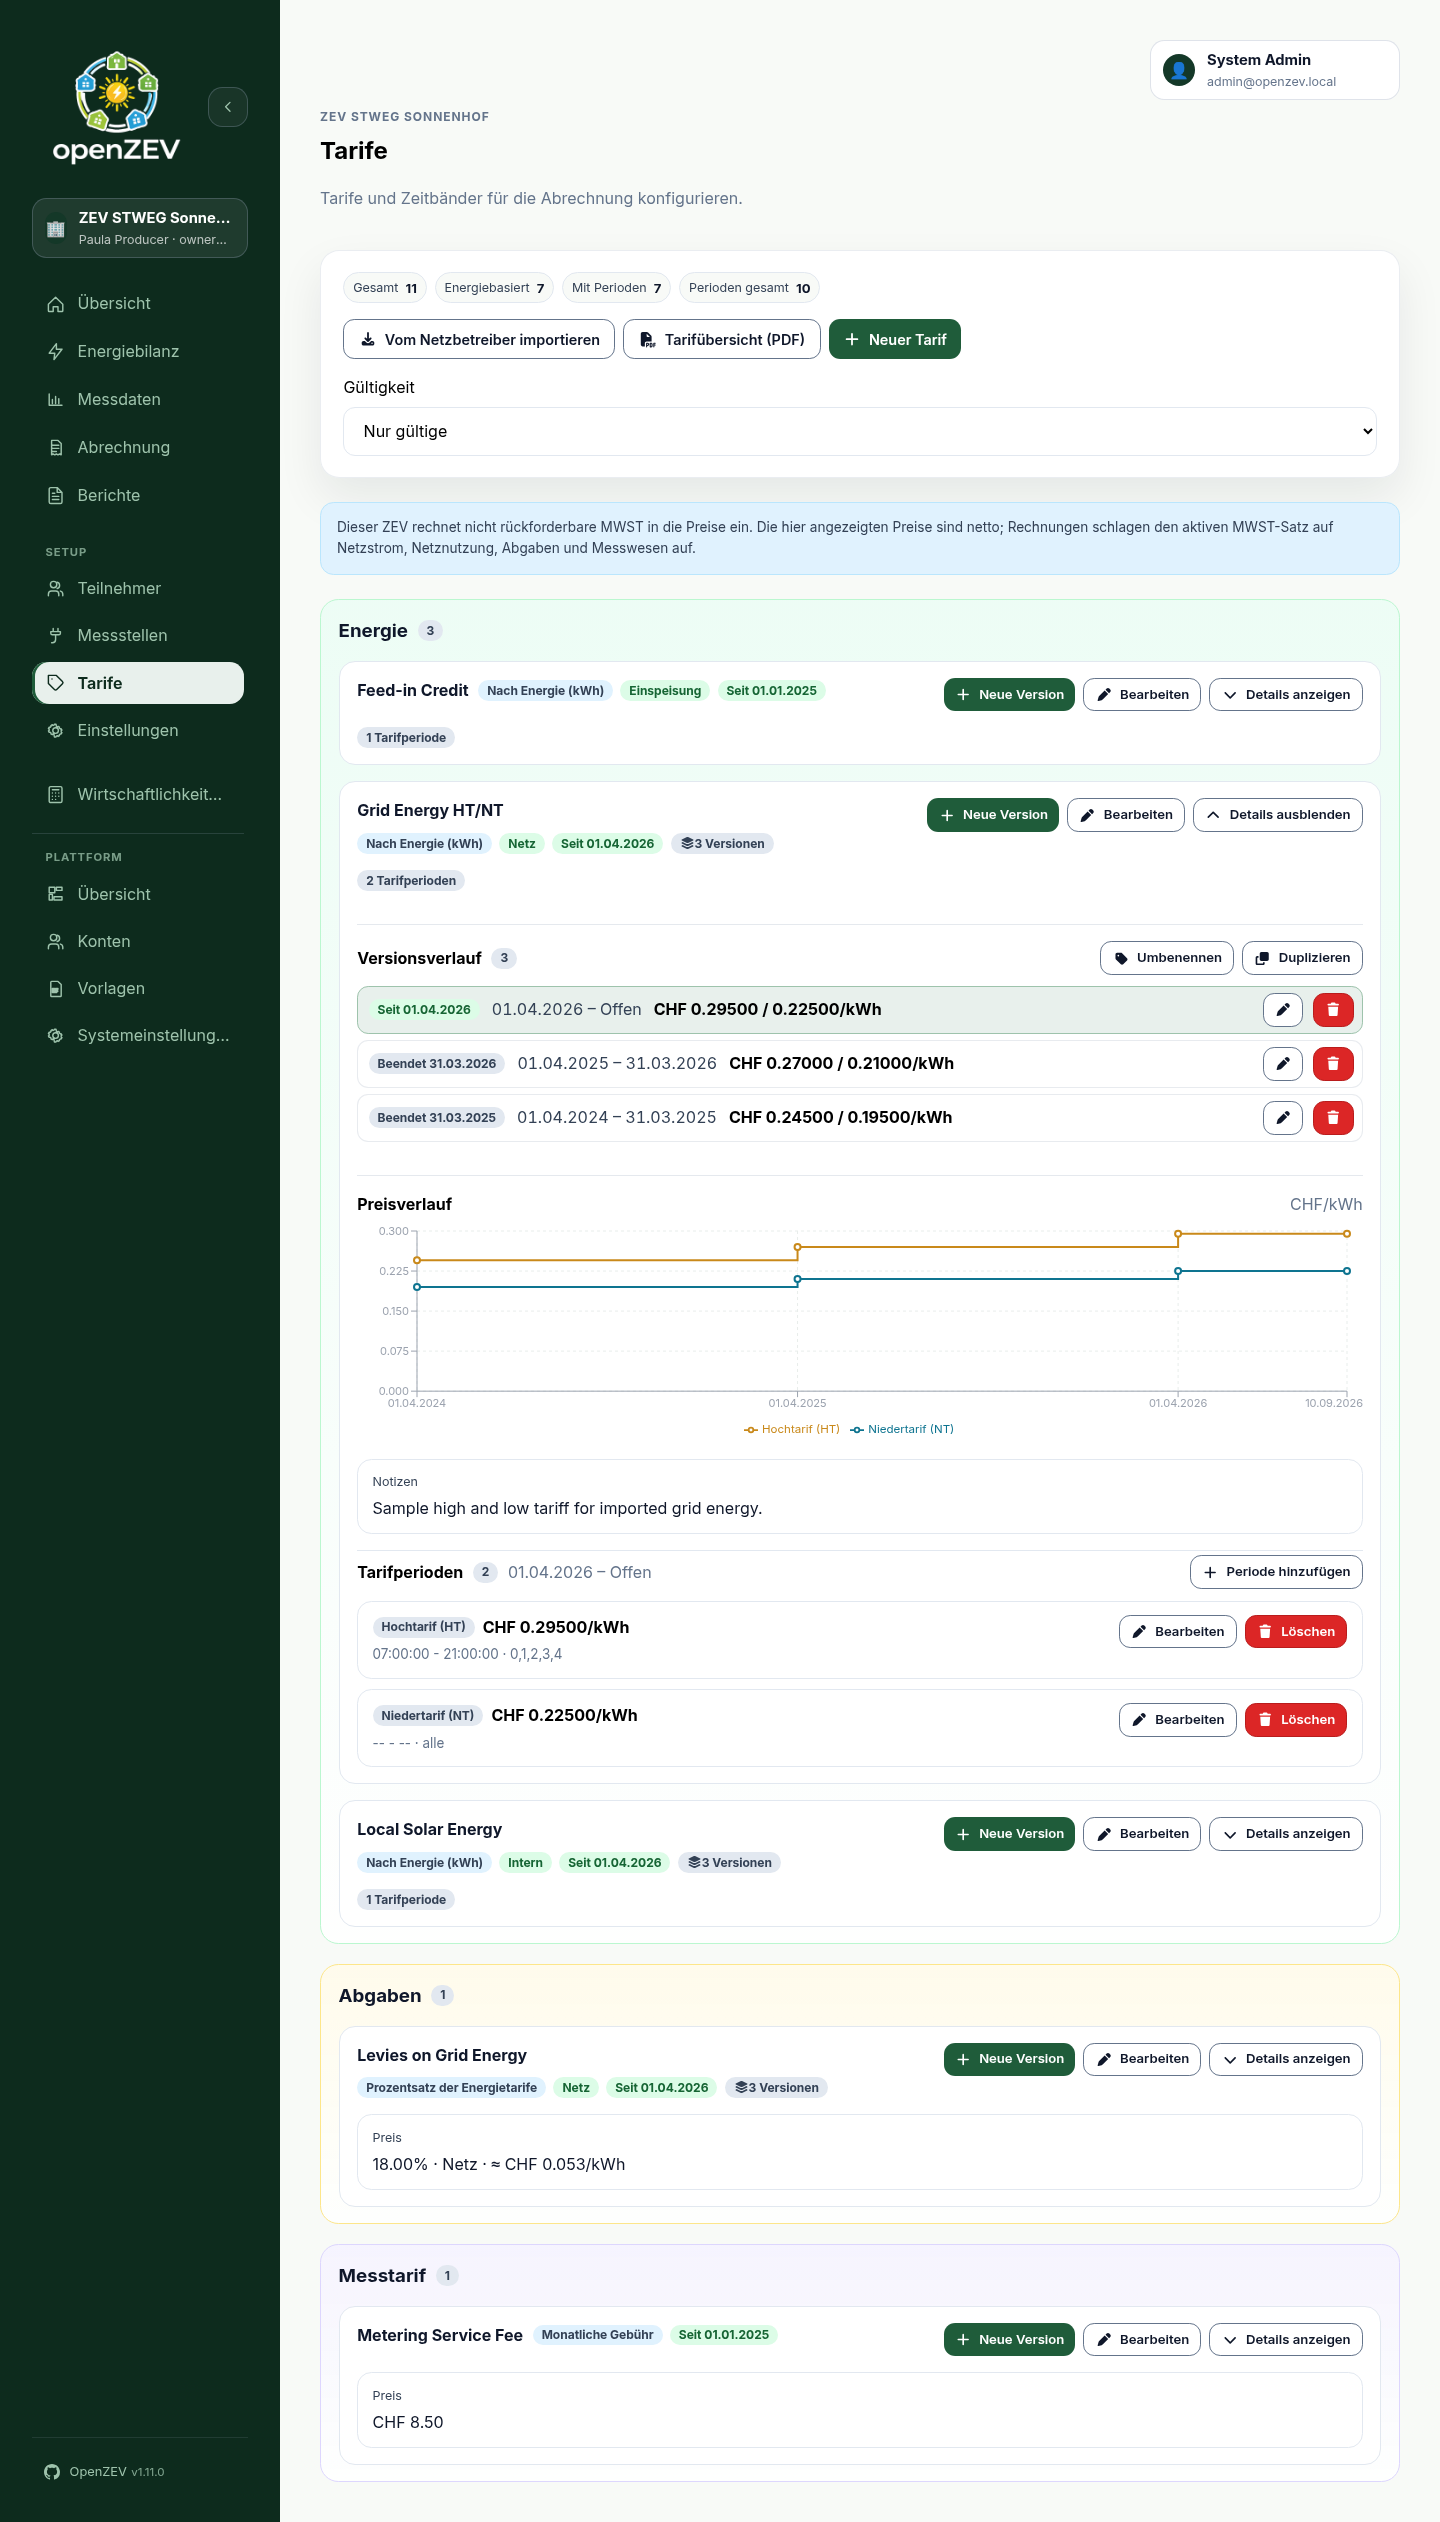
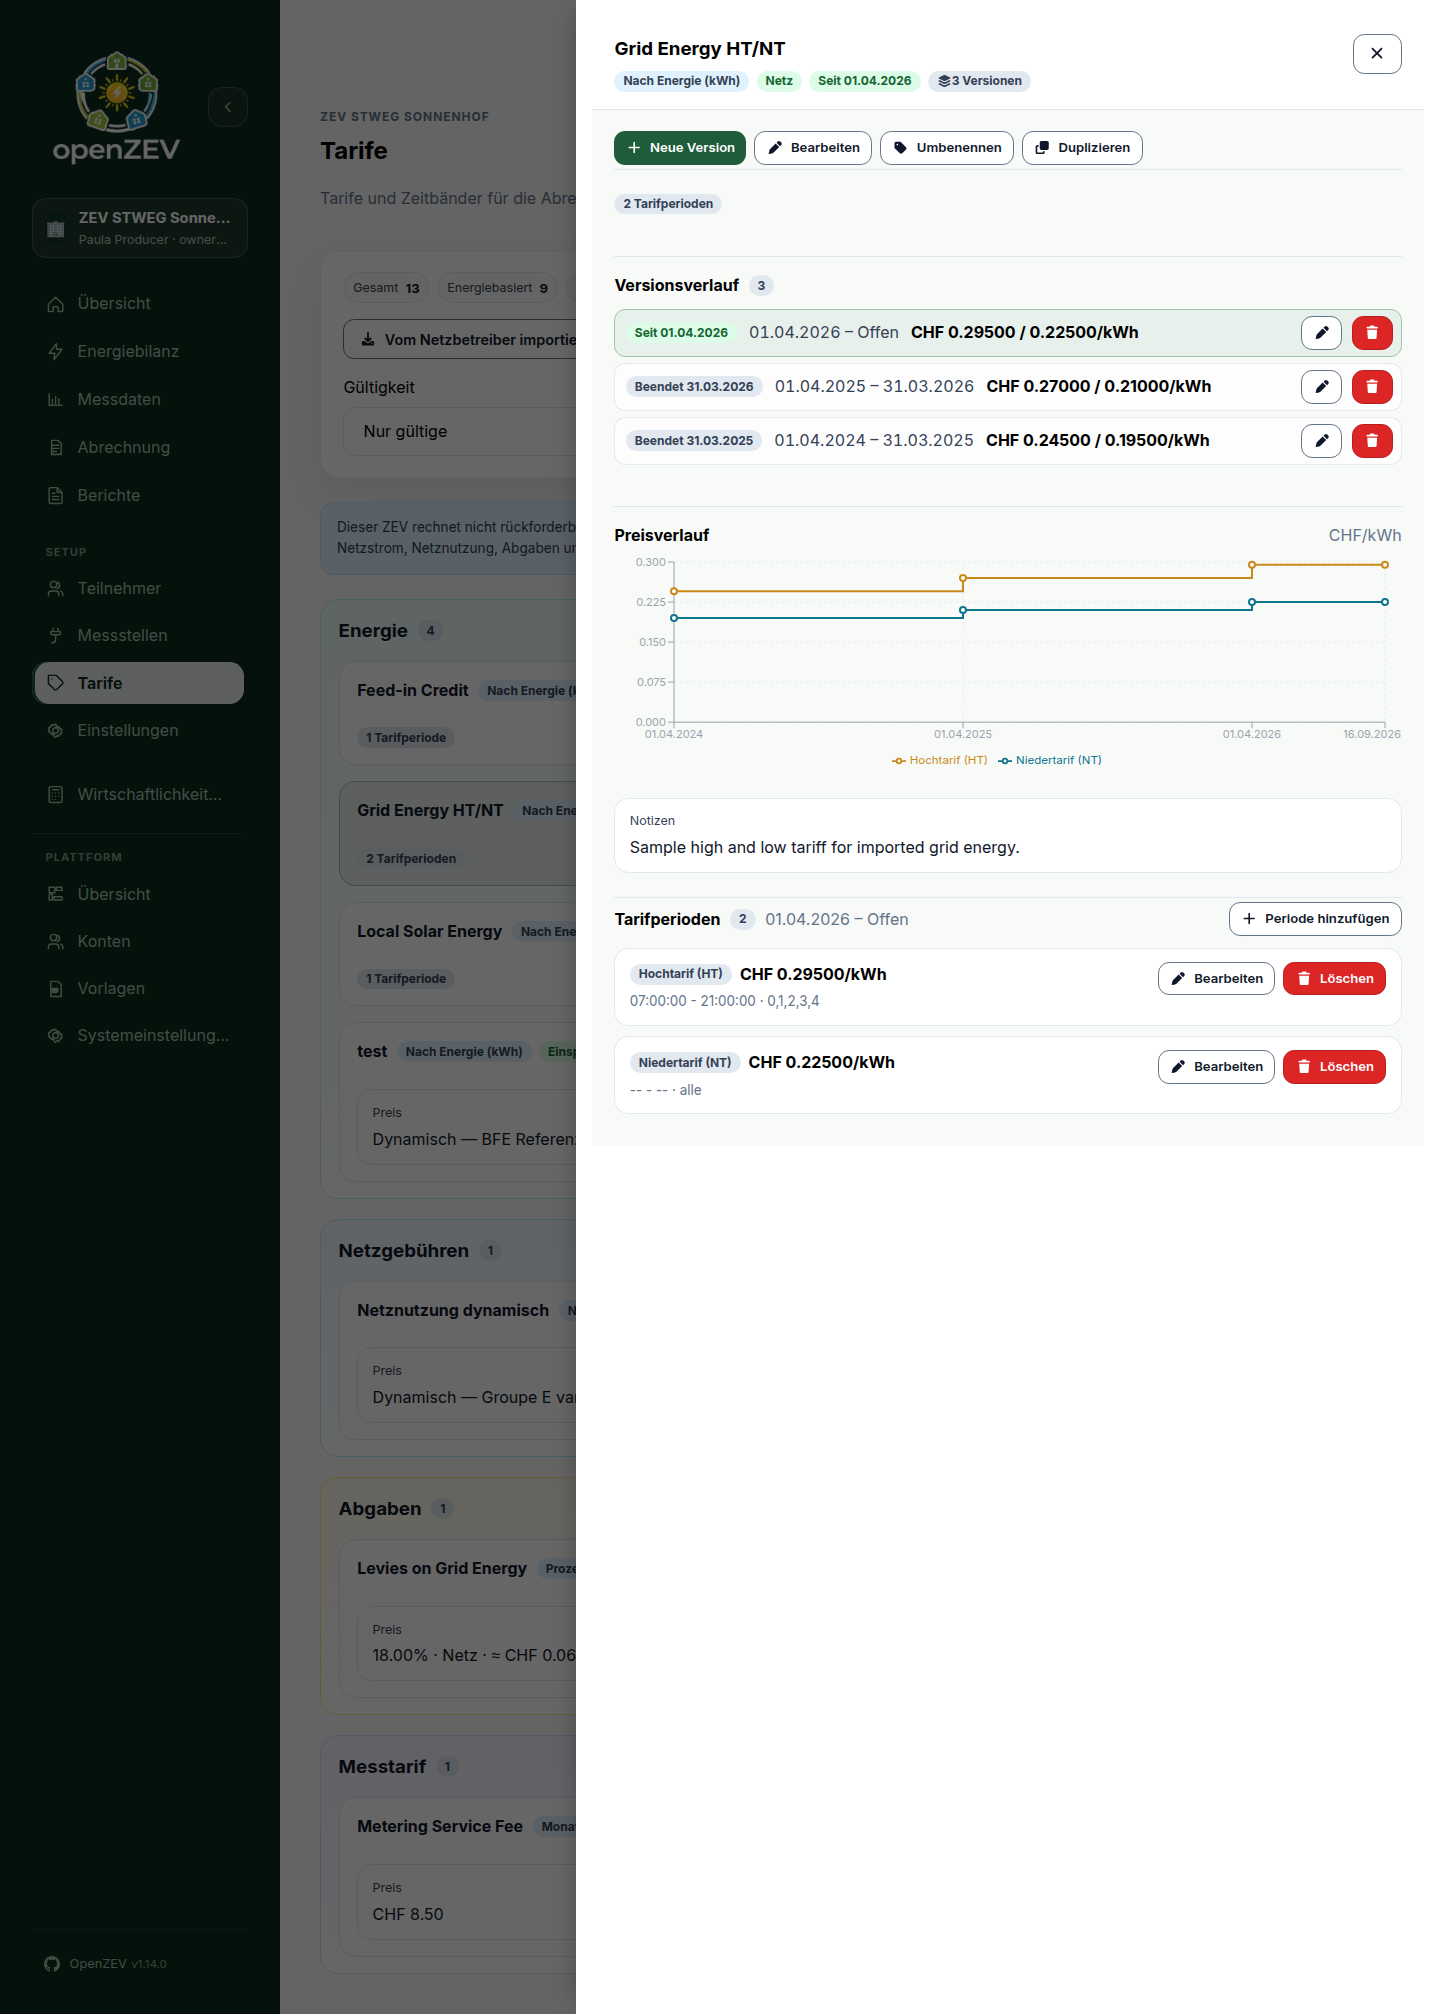
docs(tariffs): update user guide for the detail drawer, retire 07e (#734)
The tariff configuration chapter still described the pre-#729 in-card
expand ("Show details", version history and price chart living inside
the card, Rename/Duplicate "in the version history header"). Rewrites
the affected sections for the detail drawer: View details opens a
panel that shows a version other than the active one without changing
what the card reports, actions sit at the top of the panel, and the
open tariff/version now survives a reload via the URL.

frontend/screenshots/capture.spec.ts hadn't been updated for the same
redesign, so 07b and 07d were about to start timing out for anyone who
reruns npm run screenshots: both located their content inside
article.tariff-card, which the drawer no longer renders under (it's a
page-level sibling). Re-scoped both to the drawer. 07e captured a
fetched-price-history modal that no longer exists — that content is
now part of 07d's own drawer — so it's removed along with its image.

Regenerated 07-tariffs, 07b-tariff-versions and 07d-tariff-dynamic-
source against the dev stack; no other screenshot in the set changed.

diff --git a/frontend/screenshots/capture.spec.ts b/frontend/screenshots/capture.spec.ts
@@ -232,53 +232,52 @@ test.describe('User Guide Screenshots', () => {
     await screenshotFull(page, '07-tariffs')
   })
 
-  // 07b — A tariff's version history and price chart, both behind the expander
+  // 07b — A tariff's version history and price chart, both in its detail
+  // drawer (opened from the card, but rendered as a page-level sibling —
+  // not inside article.tariff-card — so it's located from `page`, not `card`).
   test('07b-tariff-versions', async ({ page }) => {
     await navigateTo(page, '/tariffs')
     const card = page.locator('article.tariff-card').filter({ hasText: 'Grid Energy HT/NT' }).first()
     await card.waitFor({ timeout: 10_000 })
-    // The expander is the only button on the card carrying aria-expanded.
+    // "View details" is the only button on the card carrying aria-expanded.
     await card.getByRole('button', { expanded: false }).click()
+    const drawer = page.locator('.tariff-drawer')
     // Waiting on the chart rather than the history: it renders only for a series
     // with more than one version, so it also asserts the seed still has them.
-    await card.locator('.tariff-price-history').waitFor({ timeout: 10_000 })
+    await drawer.locator('.tariff-price-history').waitFor({ timeout: 10_000 })
     await page.waitForTimeout(1000)  // let Recharts finish laying out
     await screenshotFull(page, '07b-tariff-versions')
   })
 
-  // 07d — A dynamic tariff's card, expanded to show its Dynamic badge and
-  // fetched-price section. Requires a tariff named "Netznutzung dynamisch"
-  // linked to a real dynamic source — seed_demo does not create this on its
-  // own; the checked-in screenshot was captured against a source manually
-  // configured for Groupe E's public vario grid endpoint
-  // (https://api.tariffs.groupe-e.ch/v2/tariffs, tariff_type=grid), created
-  // through the ordinary two-step wizard / POST .../dynamic-sources/ and
-  // linked to a tariff on the demo ZEV. Re-running this against a stack
-  // without that fixture will time out on the card lookup below.
+  // 07d — A dynamic tariff's detail drawer, showing its Dynamic badge and
+  // fetched-price section (stats, chart and point table render inline now,
+  // no separate click into a modal — see 07e's removal below). Requires a
+  // tariff named "Netznutzung dynamisch" linked to a real dynamic source —
+  // seed_demo does not create this on its own; the checked-in screenshot was
+  // captured against a source manually configured for Groupe E's public
+  // vario grid endpoint (https://api.tariffs.groupe-e.ch/v2/tariffs,
+  // tariff_type=grid), created through the ordinary two-step wizard / POST
+  // .../dynamic-sources/ and linked to a tariff on the demo ZEV. Re-running
+  // this against a stack without that fixture will time out on the card
+  // lookup below.
   test('07d-tariff-dynamic-source', async ({ page }) => {
     await navigateTo(page, '/tariffs')
     const card = page.locator('article.tariff-card').filter({ hasText: 'Netznutzung dynamisch' }).first()
     await card.waitFor({ timeout: 10_000 })
     await card.getByRole('button', { expanded: false }).click()
-    await card.locator('.tariff-period-section').filter({ hasText: /price|preis/i }).waitFor({ timeout: 10_000 })
-    await page.waitForTimeout(500)
+    const drawer = page.locator('.tariff-drawer')
+    await drawer.locator('.tariff-period-section').filter({ hasText: /price|preis/i }).waitFor({ timeout: 10_000 })
+    // Let the inline price-history panel's own chart finish laying out too —
+    // it fetches and renders as part of this same drawer now.
+    await page.waitForTimeout(1000)
     await screenshotFull(page, '07d-tariff-dynamic-source')
   })
 
-  // 07e — The fetched-price history modal opened from that same card: chart,
-  // stats, and coverage. Same fixture requirement as 07d above.
-  test('07e-dynamic-price-history', async ({ page }) => {
-    await navigateTo(page, '/tariffs')
-    const card = page.locator('article.tariff-card').filter({ hasText: 'Netznutzung dynamisch' }).first()
-    await card.waitFor({ timeout: 10_000 })
-    await card.getByRole('button', { expanded: false }).click()
-    const openHistory = card.getByRole('button', { name: /view prices|preise anzeigen|voir les prix|visualizza prezzi/i })
-    await openHistory.waitFor({ timeout: 10_000 })
-    await openHistory.click()
-    await page.waitForSelector('.kpi-row', { timeout: 10_000 })
-    await page.waitForTimeout(1000)  // let Recharts finish laying out
-    await screenshotFull(page, '07e-dynamic-price-history')
-  })
+  // 07e was the fetched-price history modal opened from a dynamic tariff's
+  // card: chart, stats, coverage. That modal is gone — the same content now
+  // renders inline in the drawer 07d already captures — so there is nothing
+  // left for a separate shot to show. Removed along with
+  // 07e-dynamic-price-history.png.
 
   // 08 — Invoices (period overview)
   test('08-invoices', async ({ page }) => {

diff --git a/docs/user-guide/07-tariff-configuration.md b/docs/user-guide/07-tariff-configuration.md
@@ -479,8 +479,8 @@ Default periods:
 
 Create custom periods if your ZEV has different peak hours:
 
-1. Edit a tariff
-2. Click **Add Period**
+1. Open the tariff's detail panel (**View details**)
+2. Click **Add Period** in the Tariff Periods section
 3. Enter:
    - **Name** — Period identifier (e.g., "Winter Peak")
    - **Start Time** — HH:MM (24-hour format)
@@ -523,7 +523,8 @@ Local Energy                                    ← one tariff, three versions
 
 ### Adding a New Version
 
-1. Find the tariff and click **New version**
+1. Find the tariff, click **View details** to open its detail panel, then
+   click **New version**
 2. Enter the date the new prices take effect (defaults to today)
 3. Adjust the prices (pre-filled from the current version)
 4. Click **Create**
@@ -544,24 +545,30 @@ both sides.
 ### Comparing Versions
 
 The Tariffs page shows **one card per tariff**, displaying what it costs *today*
-rather than a card per version. A badge tells you how many versions it has. Click
-**Show details** for the rest.
+rather than a card per version. A badge tells you how many versions it has.
+Click **View details** to open a panel on the right with everything else:
+version history, the price chart, price bands, and notes.
 
-**Version history** lists every version with its window and price. Click one to
-make the card show that version — its price bands and periods switch to the ones
-in force then, and a **Viewing an older version** badge appears so you can't
-mistake a historical rate for the current one. Click the active version to go
+**Version history** lists every version with its window and price. Click one
+to make the *panel* show that version — its price bands switch to the ones in
+force then, and a **Viewing an older version** badge appears so you can't
+mistake a historical rate for the current one. The card behind the panel keeps
+showing the active version throughout, so switching versions to look something
+up never changes what the list itself reports. Click the active version to go
 back.
 
 Each row has its own edit and delete buttons, because correcting a superseded
 version's end date is a normal follow-up to adding a new one.
 
+The panel stays open across a page reload or a shared link — the URL records
+which tariff and version you're looking at.
+
 ![Tariff version history and price chart](screenshots/07b-tariff-versions.png)
 
 ### Price History
 
-Once a tariff has **more than one version**, expanding it also charts how its
-price moved over time.
+Once a tariff has **more than one version**, its detail panel also charts how
+its price moved over time.
 
 - The line is **stepped**, not sloped — a price holds for its whole window and
   then jumps. A sloped line would suggest it drifted between two Januaries.
@@ -577,12 +584,12 @@ price moved over time.
 
 Renaming is done for the **whole tariff**, not per version — the name is what
 holds the versions together, so renaming just one would split it into two
-unrelated tariffs. **Rename** sits in the version history header, and tells you
-how many versions it will affect.
+unrelated tariffs. **Rename** sits at the top of the detail panel, and tells
+you how many versions it will affect.
 
 ### Duplicating
 
-Use **Duplicate** (also in the version history header) to create a *different*
+Use **Duplicate** (also at the top of the detail panel) to create a *different*
 tariff starting from an existing one's numbers. It asks for a new name and leaves
 the original untouched. (Use **New version** instead when the prices of the
 *same* tariff have changed.)
